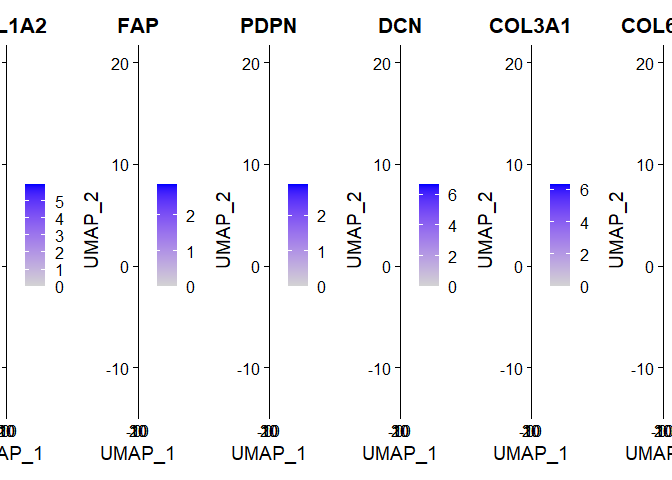
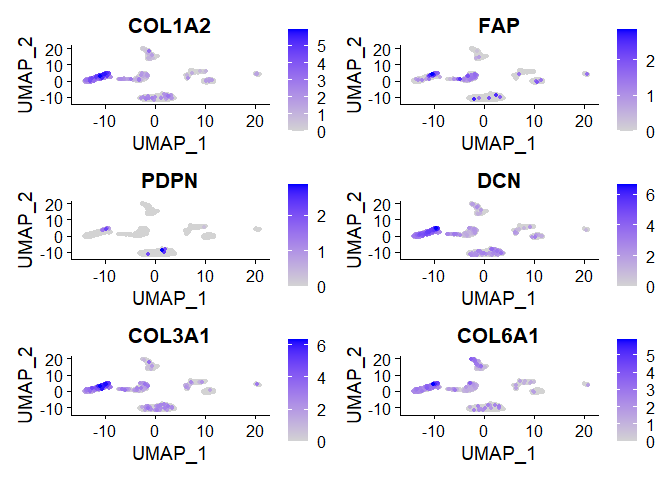
Add files via upload

diff --git a/Basic_pipelines.md b/Basic_pipelines.md
@@ -356,7 +356,7 @@ FeaturePlot(seurat,
             features = markers$T.cells,
             order = T,
             pt.size = 1,
-            ncol = 6)
+            ncol = 2)
 ```
 
 <img src="Basic_pipelines_files/figure-gfm/unnamed-chunk-12-1.png" style="display: block; margin: auto;" />
@@ -366,7 +366,7 @@ FeaturePlot(seurat,
             features = markers$B.cells,
             order = T,
             pt.size = 1,
-            ncol = 6)
+            ncol = 2)
 ```
 
 <img src="Basic_pipelines_files/figure-gfm/unnamed-chunk-13-1.png" style="display: block; margin: auto;" />
@@ -376,7 +376,7 @@ FeaturePlot(seurat,
             features = markers$TECs,
             order = T,
             pt.size = 1,
-            ncol = 6)
+            ncol = 2)
 ```
 
 <img src="Basic_pipelines_files/figure-gfm/unnamed-chunk-14-1.png" style="display: block; margin: auto;" />
@@ -386,7 +386,7 @@ FeaturePlot(seurat,
             features = markers$CAFs,
             order = T,
             pt.size = 1,
-            ncol = 6)
+            ncol = 2)
 ```
 
 <img src="Basic_pipelines_files/figure-gfm/unnamed-chunk-15-1.png" style="display: block; margin: auto;" />
@@ -396,7 +396,7 @@ FeaturePlot(seurat,
             features = markers$TAMs,
             order = T,
             pt.size = 1,
-            ncol = 6)
+            ncol = 2)
 ```
 
 <img src="Basic_pipelines_files/figure-gfm/unnamed-chunk-16-1.png" style="display: block; margin: auto;" />
@@ -406,7 +406,7 @@ FeaturePlot(seurat,
             features = markers$HPC.like,
             order = T,
             pt.size = 1,
-            ncol = 6)
+            ncol = 2)
 ```
 
 <img src="Basic_pipelines_files/figure-gfm/unnamed-chunk-17-1.png" style="display: block; margin: auto;" />
